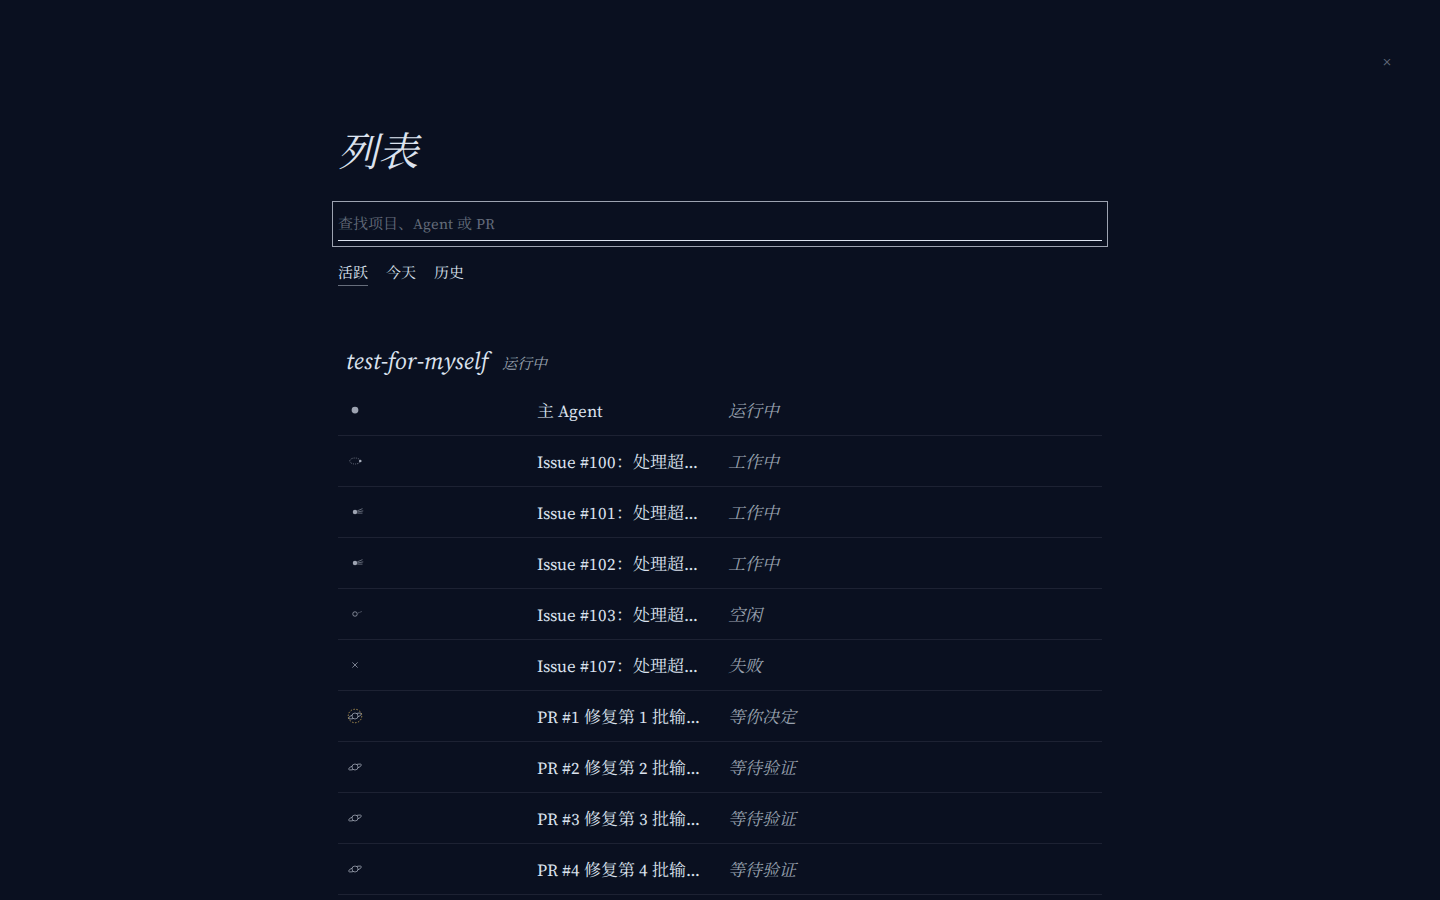
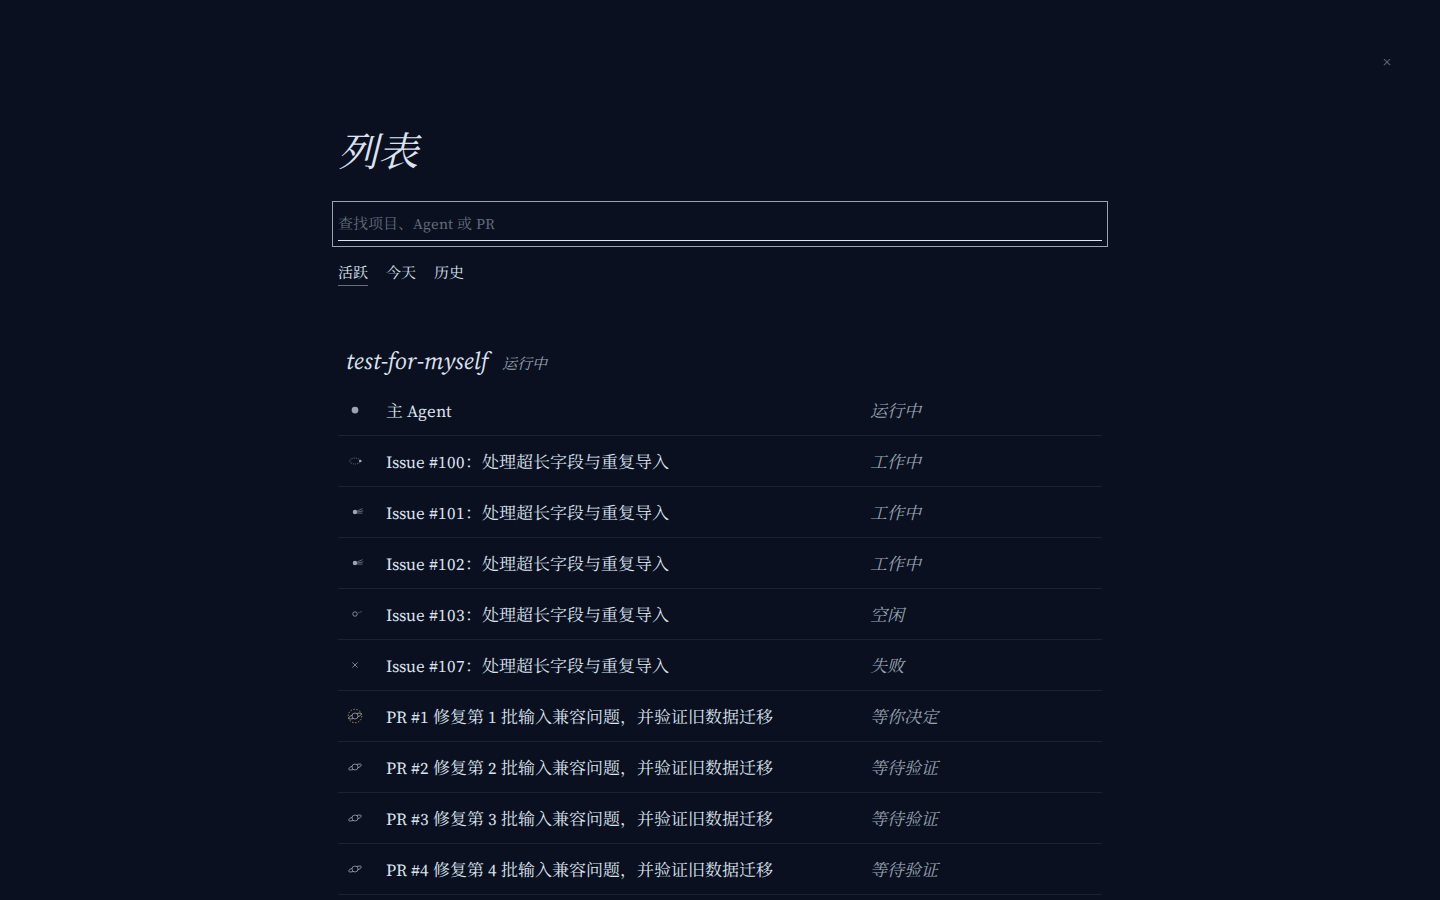
fix(stars): give catalogue glyph and status columns fixed widths

diff --git a/web/src/stars/PeripherySlot.tsx b/web/src/stars/PeripherySlot.tsx
@@ -173,7 +173,7 @@ export default function PeripherySlot(props: StarsSlotProps) {
     <nav className={`stars-tools${state.selection || state.platformPanel || state.overlay === "list" ? " covered" : ""}`} aria-label="工具">{(["brief", "list", "timeline", "legend", "display"] as Overlay[]).map((o, i) => <button key={o} aria-pressed={state.overlay === o} className={state.overlay === o ? "on" : ""} onClick={() => state.overlay === o ? ui.close() : ui.openOverlay(o)}>{["简报", "列表", "时间", "图例", "显示"][i]}</button>)}</nav>
     {(!projects.length || (setup && (!setup.github.configured || !setup.models.available))) && <section className="periphery-onboarding" aria-label="首次使用"><h2>开始你的第一个项目</h2>{!setup ? <p role="status">{platformError || "正在读取接入和模型状态…"}{platformError && <button onClick={() => setPlatformAttempt((n) => n + 1)}>重新读取状态</button>}</p> : <ol>{[[setup.github.configured && setup.github.installations > 0, "接入 GitHub", () => ui.openPlatform("setup")], [setup.models.available && models?.gatewayAvailable === true, "填写模型凭证", () => ui.openPlatform("models")], [projects.length > 0, "创建第一个项目", openCreate]].map(([done, label, run]) => <li key={String(label)} data-complete={!!done}><span aria-hidden="true">{done ? "★" : "☆"}</span><button onClick={run as () => void}>{String(label)}，{done ? "已完成" : "待完成"}</button></li>)}</ol>}</section>}
     <section className={`periphery-brief${state.overlay === "brief" ? " open" : ""}`} aria-label="简报" role="dialog" aria-hidden={state.overlay !== "brief"} inert={state.overlay !== "brief"}><h2>{needCount ? "有事需要你。" : "一切正常，不需要你做什么。"}</h2><p className="sub">{summary}</p><div className="periphery-foot"><button className="go" onClick={enterStars}>进入星图</button><label><input type="checkbox" checked={skip} onChange={(e) => { setSkip(e.target.checked); preference.write("sj-brief", e.target.checked ? "off" : "on"); }} />下次直接进入星图</label></div><div className="periphery-brief-body"><h3>需要你</h3>{decisions.slice(0, 3).map(({ e, d }) => d.kind === "pr" ? briefItem(`PR #${d.pr.number} ${prSummary(d.pr, 30)}`, e.s.hive.name, () => ui.selectObject({ hiveId: e.id, kind: "pr", id: d.id, number: d.pr.number }), `${e.id}:${d.id}`, true) : briefItem(messagePreview(d.message), e.s.hive.name, () => d.message.from === "queen" ? ui.selectObject({ hiveId: e.id, kind: "queen", id: `${e.id}:queen` }) : ui.selectObject({ hiveId: e.id, kind: "agent", id: d.message.from.replace(/^forager:/, "") }), `${e.id}:${d.id}`, true))}{decisions.length > 3 && briefItem(`还有 ${decisions.length - 3} 个`, "在列表里查看", () => { setScope("active"); setSearch(""); ui.openOverlay("list"); }, "more-decisions")}{!decisions.length && <p className="periphery-muted">暂时没有等你决定的事。</p>}{!loaded && <p role="status">正在读取项目…</p>}{entries.some((e) => e.state.resources.prs.status === "loading") && <p role="status">正在向 GitHub 读取 PR…</p>}<h3>正在进行</h3>{active.slice(0, 3).map(({ e, a }) => briefItem(agentSummary(a, { prs: e.s.prs, issues: e.s.signals }, 30), e.s.hive.name, () => ui.selectObject({ hiveId: e.id, kind: "agent", id: a.id }), a.id))}{active.length > 3 && briefItem(`还有 ${active.length - 3} 个`, "在列表里查看", () => { setScope("active"); setSearch(""); ui.openOverlay("list"); }, "more-active")}{!active.length && <p className="periphery-muted">当前没有工作中的 Agent。</p>}<h3>需要留意</h3>{attention.map(({ e, a }) => <div className="periphery-attention" key={a.id}>{briefItem(agentSummary(a, { prs: e.s.prs, issues: e.s.signals }, 30), a.state === "failed" ? "失败" : "仍占名额", () => ui.selectObject({ hiveId: e.id, kind: "agent", id: a.id }), `attention:${a.id}`)}<button className="ack" onClick={() => acknowledge(e, a)}>知道了</button></div>)}{setup && (!setup.models.available || models?.gatewayAvailable === false) && briefItem(models?.gatewayAvailable === false ? "模型服务无法连接，请检查服务。" : setup.models.configured ? "凭证已保存，目前无可用凭证。" : "尚无可用模型凭证。", "平台设置", () => ui.openPlatform("models"), "models")}{platformError && <p role="alert">无法读取平台状态：{platformError} <button onClick={() => setPlatformAttempt((n) => n + 1)}>重新读取状态</button></p>}{!attention.length && !platformError && <p className="periphery-muted">{setup && loaded ? "已读取最新平台与项目状态。" : "正在检查平台与项目状态…"}</p>}<h3>昨晚完成</h3><p className="periphery-muted">{lastNight} 个 Agent 完成（按更新时间近似）；昨晚合并数和花费暂时无法获取。</p>{usage && <p className="periphery-muted">今天花费 {money(usage.totals.costUsd)}</p>}</div></section>
-    <section className={`periphery-list${state.overlay === "list" ? " open" : ""}`} role="dialog" aria-label="列表" aria-hidden={state.overlay !== "list"} inert={state.overlay !== "list"}><button className="periphery-sheet-x" aria-label="关闭" onClick={() => ui.close()}>×</button><div className="inner"><h2>列表</h2><input ref={listInput} aria-label="查找项目、Agent 或 PR" placeholder="查找项目、Agent 或 PR" autoComplete="off" value={search} onChange={(e) => setSearch(e.target.value)} /><div className="periphery-scope" aria-label="列表筛选">{(["active", "today", "history"] as const).map((value, i) => <button key={value} className={scope === value ? "on" : ""} aria-pressed={scope === value} onClick={() => setScope(value)}>{["活跃", "今天", "历史"][i]}</button>)}</div><table><tbody>{groups.map(({ e, rows: projectRows }) => <FragmentRows key={e.id} e={e} rows={projectRows} glyph={glyph} />)}{!groups.length && <tr><td className="s" colSpan={4}>{loaded ? "没有找到。" : "正在读取项目列表…"}</td></tr>}</tbody></table></div></section>
+    <section className={`periphery-list${state.overlay === "list" ? " open" : ""}`} role="dialog" aria-label="列表" aria-hidden={state.overlay !== "list"} inert={state.overlay !== "list"}><button className="periphery-sheet-x" aria-label="关闭" onClick={() => ui.close()}>×</button><div className="inner"><h2>列表</h2><input ref={listInput} aria-label="查找项目、Agent 或 PR" placeholder="查找项目、Agent 或 PR" autoComplete="off" value={search} onChange={(e) => setSearch(e.target.value)} /><div className="periphery-scope" aria-label="列表筛选">{(["active", "today", "history"] as const).map((value, i) => <button key={value} className={scope === value ? "on" : ""} aria-pressed={scope === value} onClick={() => setScope(value)}>{["活跃", "今天", "历史"][i]}</button>)}</div><table><colgroup><col className="col-glyph" /><col className="col-summary" /><col className="col-status" /><col className="col-cost" /></colgroup><tbody>{groups.map(({ e, rows: projectRows }) => <FragmentRows key={e.id} e={e} rows={projectRows} glyph={glyph} />)}{!groups.length && <tr><td className="s" colSpan={4}>{loaded ? "没有找到。" : "正在读取项目列表…"}</td></tr>}</tbody></table></div></section>
     <section className={`periphery-pop periphery-legend${state.overlay === "legend" ? " open" : ""}`} role="dialog" aria-label="图例" aria-hidden={state.overlay !== "legend"} inert={state.overlay !== "legend"}><h2>图例</h2>{([ ["star", "主 Agent，每个项目中间的那颗"], ["hist", "做完的事，散在最外层；越亮越新"], ["cluster", "放不下的 PR 或 Issue，点开看全部"], ["busy", "工作中的 Agent，尾巴越长越忙"], ["parked", "空闲的 Agent"], ["failed", "失败的 Agent"], ["pr", "PR"], ["ready", "等你决定的 PR"], ["moon", "正在验证 PR 的 verifier"], ["signal", "GitHub 上的 Issue"], ["ci", "未通过的 CI"], ["queue", "排队等待的任务"], ["you", "你"] ] as [StarGlyph, string][]).map(([kind, label]) => <div className="k" key={kind}>{glyph(kind)}<span>{label}</span></div>)}</section>
     <section className={`periphery-pop periphery-display${state.overlay === "display" ? " open" : ""}`} role="dialog" aria-label="显示" aria-hidden={state.overlay !== "display"} inert={state.overlay !== "display"}><div className="opt">风格<span>{(["classic", "simple"] as const).map((value, i) => <button key={value} className={theme.style === value ? "on" : ""} aria-pressed={theme.style === value} onClick={() => themeStore.setStyle(value)}>{["经典", "简洁"][i]}</button>)}</span></div><div className="opt">主题<span>{Object.entries(THEMES).map(([id, t]) => <button key={id} className={theme.choice === id ? "on" : ""} aria-pressed={theme.choice === id} onClick={() => themeStore.setTheme(id as ThemeChoice)}>{t.label}</button>)}<button className={theme.choice === "system" ? "on" : ""} aria-pressed={theme.choice === "system"} onClick={() => themeStore.setTheme("system")}>跟随系统</button></span></div><div className="opt">经纬线<span><button className={theme.render.grid ? "on" : ""} aria-pressed={theme.render.grid} onClick={() => themeStore.setGrid(true)}>显示</button><button className={!theme.render.grid ? "on" : ""} aria-pressed={!theme.render.grid} onClick={() => themeStore.setGrid(false)}>隐藏</button></span></div></section>
     <form className={`stars-say${state.overlay === "brief" || state.overlay === "timeline" ? " suppressed" : ""}`} onSubmit={onSay}><input ref={input} aria-label="对话与命令" aria-describedby="periphery-say-hint" placeholder="对主 Agent 说：新任务、问题都可以" autoComplete="off" value={text} onChange={(e) => setText(e.target.value)} /><button className="stars-say-submit" disabled={!text.trim() || (busy && !route)} aria-label={route ? "前往" : "发送"}>{route ? "前往" : "发送"}</button></form><div id="periphery-say-hint" className={`stars-say-hint${text ? " on" : ""}`} role="status">{text ? `回车${route ? route.label : current ? "发给主 Agent" : "前请先选择项目"}` : ""}</div>

diff --git a/web/src/stars/periphery.css b/web/src/stars/periphery.css
@@ -29,6 +29,7 @@
 .periphery-list input{display:block;width:100%;margin-top:26px;padding:6px 0!important;border:0!important;border-bottom:1px solid var(--ink3)!important;background:none!important;font:italic 20px var(--body);outline:0;outline-offset:0}.periphery-list input:focus-visible{outline:1px solid var(--ink2)!important;outline-offset:5px!important;border-color:var(--ink)!important}.periphery-list input::placeholder{color:var(--ink3)}
 .periphery-scope{display:flex;gap:18px;margin-top:18px}.periphery-scope button{font:italic 16px var(--body);color:var(--ink3);border-bottom:1px solid transparent!important;padding:2px 0!important}.periphery-scope button:hover,.periphery-scope button.on{color:var(--ink);border-color:var(--ink3)!important}
 .periphery-list table{width:100%;border-collapse:collapse;margin-top:18px;table-layout:fixed}.periphery-list td{padding:12px 8px;border-bottom:1px solid var(--hair);font-size:17px;vertical-align:middle}.periphery-list tr.item{cursor:pointer}.periphery-list tr.item:hover td,.periphery-list tr.item:hover .g{color:var(--ink)}.periphery-list tr.item:focus-visible{outline:1px solid var(--ink2);outline-offset:2px}
+.periphery-list .col-glyph{width:40px}.periphery-list .col-status{width:150px}.periphery-list .col-cost{width:90px}
 .periphery-list .g{width:40px;color:var(--ink2)}.periphery-list .g svg{width:18px;height:18px;display:block}.periphery-list td:nth-child(2){overflow:hidden;text-overflow:ellipsis;white-space:nowrap}.periphery-list .s{width:150px;color:var(--ink2);font-style:italic;white-space:nowrap}.periphery-list .c{text-align:right;color:var(--ink3);font-variant-numeric:oldstyle-nums;width:90px;white-space:nowrap}.periphery-list tr.grp td{border:0;padding:40px 8px 8px;font:italic 24px var(--body)}.periphery-list tr.grp small{font-size:15px;color:var(--ink2);margin-left:14px}
 .periphery-pop{position:absolute;right:52px;bottom:88px;background:var(--veil);border:1px solid var(--hair);outline:1px solid var(--hair);outline-offset:3px;padding:22px 26px;opacity:0;pointer-events:none;transform:translateY(6px);transition:opacity .3s,transform .3s;z-index:7}.periphery-pop.open{opacity:1;pointer-events:auto;transform:none}
 .periphery-legend{width:300px}.periphery-legend h2{font:400 20px var(--title);margin:0 0 12px}.periphery-legend .k{display:flex;align-items:center;gap:14px;font-size:15px;color:var(--ink2);padding:5px 0}.periphery-legend .k svg{width:22px;height:22px;flex:none;color:var(--ink)}
@@ -39,4 +40,5 @@
 .stars-login-mark{position:absolute;left:60px;top:54px;font:italic 400 21px var(--title)}.stars-login{position:absolute;left:50%;top:50%;transform:translate(-50%,-50%);width:min(500px,calc(100vw - 52px));max-height:calc(100vh - 80px);overflow:auto;scrollbar-width:none;background:var(--paper);border:1px solid var(--hair);outline:1px solid var(--hair);outline-offset:-7px;padding:56px 64px 48px}.stars-login-kicker{font:italic 15px var(--body);color:var(--ink2);margin:0 0 12px}.stars-login h1{font:italic 400 40px var(--title);margin:0}.stars-login-lead{font-size:17px;line-height:1.6;color:var(--ink2);margin:10px 0 28px}.stars-login label{display:block;margin:22px 0;font-size:15px;color:var(--ink2)}.stars-login input{display:block;width:100%;border:0;border-bottom:1px solid var(--ink3);background:transparent;padding:10px 0 6px;font-size:17px;color:var(--ink)}.stars-login input:focus-visible{outline:0;border-color:var(--ink)}.stars-login-submit{font:italic 17px var(--body)!important;color:var(--ink)!important;border-bottom:1px solid var(--ink)!important;padding:2px 0!important;margin-top:10px}.stars-login [role=alert]{line-height:1.7;color:var(--accent)}
 .stars-login-page .stars-login{animation:login-enter .5s both}.stars-login-page.leaving .stars-login{animation:login-leave .3s both}.stars-login-page.leaving .stars-login-mark{opacity:0;transition:opacity .3s}@keyframes login-enter{from{opacity:0;transform:translate(-50%,calc(-50% + 10px))}to{opacity:1;transform:translate(-50%,-50%)}}@keyframes login-leave{to{opacity:0;transform:translate(-50%,calc(-50% + 10px))}}
 @media(max-width:720px){.stars-mark{left:30px;top:30px}.stars-cartouche{left:30px;bottom:175px;max-width:calc(100vw - 60px)}.stars-cartouche h1{font-size:24px}.stars-say{width:220px}.stars-say:focus-within{width:calc(100vw - 60px)}.stars-tools{right:28px;bottom:92px;gap:10px;max-width:calc(100vw - 56px);flex-wrap:wrap;justify-content:flex-end}.stars-tools button{font-size:14px}.periphery-brief{left:30px;top:90px;width:calc(100vw - 60px);max-height:calc(100vh - 200px)}.periphery-list .inner{margin:90px auto 70px;padding:0 30px}.periphery-list .s{width:88px}.periphery-list .c{width:58px}.periphery-list td{font-size:14px;padding:10px 4px}.periphery-pop{right:20px;bottom:130px;max-width:calc(100vw - 40px)}.periphery-display .opt span{gap:8px}.periphery-display .opt button{font-size:13px}.periphery-create{padding:22px}.stars-login-mark{left:30px;top:30px}.stars-login{padding:50px 32px 36px}}
+@media(max-width:720px){.periphery-list .col-status{width:88px}.periphery-list .col-cost{width:58px}}
 @media(prefers-reduced-motion:reduce){.periphery-list,.periphery-pop,.periphery-brief,.stars-say,.stars-say-hint,.stars-cartouche h1,.stars-cartouche p,.stars-status{transition:none!important}.stars-login-page .stars-login{animation:none!important}}

diff --git a/web/tests/round8-periphery.spec.ts b/web/tests/round8-periphery.spec.ts
@@ -62,6 +62,30 @@ test("375px 和快捷键可操作", async ({ page }) => {
   await expect(page.getByLabel("对话与命令")).toBeFocused();
 });
 
+test("列表图标与状态列保持设计宽度，摘要占剩余空间且手机可打开详情", async ({ browser }) => {
+  for (const width of [1440, 375]) {
+    const context = await browser.newContext({ viewport: { width, height: 900 }, reducedMotion: "reduce" });
+    const page = await context.newPage();
+    await preview(page);
+    await page.getByRole("button", { name: "进入星图" }).click();
+    await page.getByRole("button", { name: "列表", exact: true }).click();
+    const list = page.getByRole("dialog", { name: "列表" });
+    await expect(list).toBeVisible();
+    const sizes = await list.locator("tr.item").first().locator("td").evaluateAll((cells) => cells.map((cell) => Math.round(cell.getBoundingClientRect().width)));
+    console.log(`catalogue ${width}px columns: ${sizes.join(" / ")}`);
+    expect(sizes, `${width}px column widths`).toHaveLength(4);
+    expect(sizes[0], `${width}px glyph`).toBeLessThanOrEqual(48);
+    expect(sizes[2], `${width}px status`).toBeLessThanOrEqual(width === 1440 ? 158 : 96);
+    expect(sizes[3], `${width}px cost`).toBeLessThanOrEqual(width === 1440 ? 98 : 66);
+    expect(sizes[1], `${width}px summary`).toBeGreaterThan(width === 1440 ? 400 : 100);
+    expect(await list.evaluate((element) => element.scrollWidth)).toBeLessThanOrEqual(width);
+    await list.getByLabel("查找项目、Agent 或 PR").fill("PR #1");
+    await list.locator("tr.item").first().click();
+    await expect(page.getByRole("region", { name: "对象详情" })).toBeVisible();
+    await context.close();
+  }
+});
+
 test("明亮和夜空稳定画面逐层执行完整 axe", async ({ browser }) => {
   for (const theme of ["bright", "night"] as const) {
     const context = await browser.newContext({ viewport: { width: 1440, height: 900 }, reducedMotion: "reduce" });

diff --git a/docs/claude/round8-periphery/README.md b/docs/claude/round8-periphery/README.md
@@ -5,7 +5,7 @@
 | 界面 | 明亮 | 夜空 | 对照差异 |
 |---|---|---|---|
 | 简报 | [并排图](compare-bright-brief.png) | [并排图](compare-night-brief.png) | 设计稿展示三个项目及固定示例；实现使用一个高密度项目和真实派生数据，因而决定数、文案与星图不同。结构、字号、左上位置、行间距、细线和进出位移沿用设计稿。实现增加“还有 N 个”与最近 24 小时失败项的“知道了”；右侧状态保持一行。1440×900 下“需要你”与“需要留意”同屏。点击“进入星图”后按设计推近待决定的项目。 |
-| 列表 | [并排图](compare-bright-list.png) | [并排图](compare-night-list.png) | 设计稿按项目列出当前对象；实现添加任务要求的“活跃 / 今天 / 历史”三项筛选，历史对象可搜索。数据内容不同。列表背景改为不透底的既有 `--paper`，避免下层文字透出；搜索焦点仍用设计稿的细线。项目行 15px 状态注记原 `--ink3` 在明亮主题被 axe 测得 2.91:1，按用户批准的局部例外只改为既有 `--ink2`。 |
+| 列表 | [并排图](compare-bright-list.png) | [并排图](compare-night-list.png) | 设计稿按项目列出当前对象；实现添加任务要求的“活跃 / 今天 / 历史”三项筛选，历史对象可搜索。数据内容不同。[列宽回归记录](list-columns.md)确认图标/摘要/状态/费用为 40/484/150/90px，375px 下为 40/129/88/58px。列表背景改为不透底的既有 `--paper`，避免下层文字透出；搜索焦点仍用设计稿的细线。项目行 15px 状态注记原 `--ink3` 在明亮主题被 axe 测得 2.91:1，按用户批准的局部例外只改为既有 `--ink2`。 |
 | 图例 | [并排图](compare-bright-legend.png) | [并排图](compare-night-legend.png) | 位置、尺寸、行距、图形定义照设计稿；实现按本轮需求增加 CI，故多一行。原稿的 h4 调整为视觉相同的 h2，让 axe 标题顺序通过。星图由另一任务实现，图形与其共享 `star-glyphs.ts`。 |
 | 显示 | [并排图](compare-bright-display.png) | [并排图](compare-night-display.png) | 三行文字切换及位置尺寸与设计稿一致，主题项依次为明亮、纸本、夜空、跟随系统；没有原生选择框或复选框。背后星图和项目数因 mock 不同。 |
 | 命令 | [并排图](compare-bright-command.png) | [并排图](compare-night-command.png) | 输入框、聚焦宽度、细线和底部提示沿用设计稿；Enter 执行命令或发送消息，提交按钮仅供读屏访问、不占视觉宽度。实现用真实 API 发送并在发送期间保留后续输入草稿。 |

diff --git a/docs/claude/round8-periphery/list-columns.md b/docs/claude/round8-periphery/list-columns.md
@@ -1,0 +1,14 @@
+# 列表列宽回归
+
+复现：原列表使用 `table-layout: fixed`，首行是 `colSpan=4` 的项目分组且没有 `colgroup`。在 1440×900 的真实规模 mock 下，Playwright 实测第一项图标单元格 **191px**，标题列同样被等分，长摘要只露开头。
+
+修复：保留固定表格布局与单行省略，明确四列为图标 40px、摘要占剩余宽、状态 150px、费用 90px；375px 时状态和费用改为 88px、58px。没有改数据层或手机端的 `nowrap` 规则。
+
+命令：`cd web && PLAYWRIGHT_PORT=5278 npx playwright test tests/round8-periphery.spec.ts -g '列表图标与状态列保持设计宽度'`。结果 1/1 通过，实测列宽：
+
+| 视口 | 图标 | 摘要 | 状态 | 费用 |
+|---:|---:|---:|---:|---:|
+| 1440px | 40px | 484px | 150px | 90px |
+| 375px | 40px | 129px | 88px | 58px |
+
+测试同时断言列表自身不超过视口宽度，搜索 PR 后可点击该行并打开详情。修正后的[明亮并排图](compare-bright-list.png)和[夜空并排图](compare-night-list.png)显示标题列恢复为主宽。
